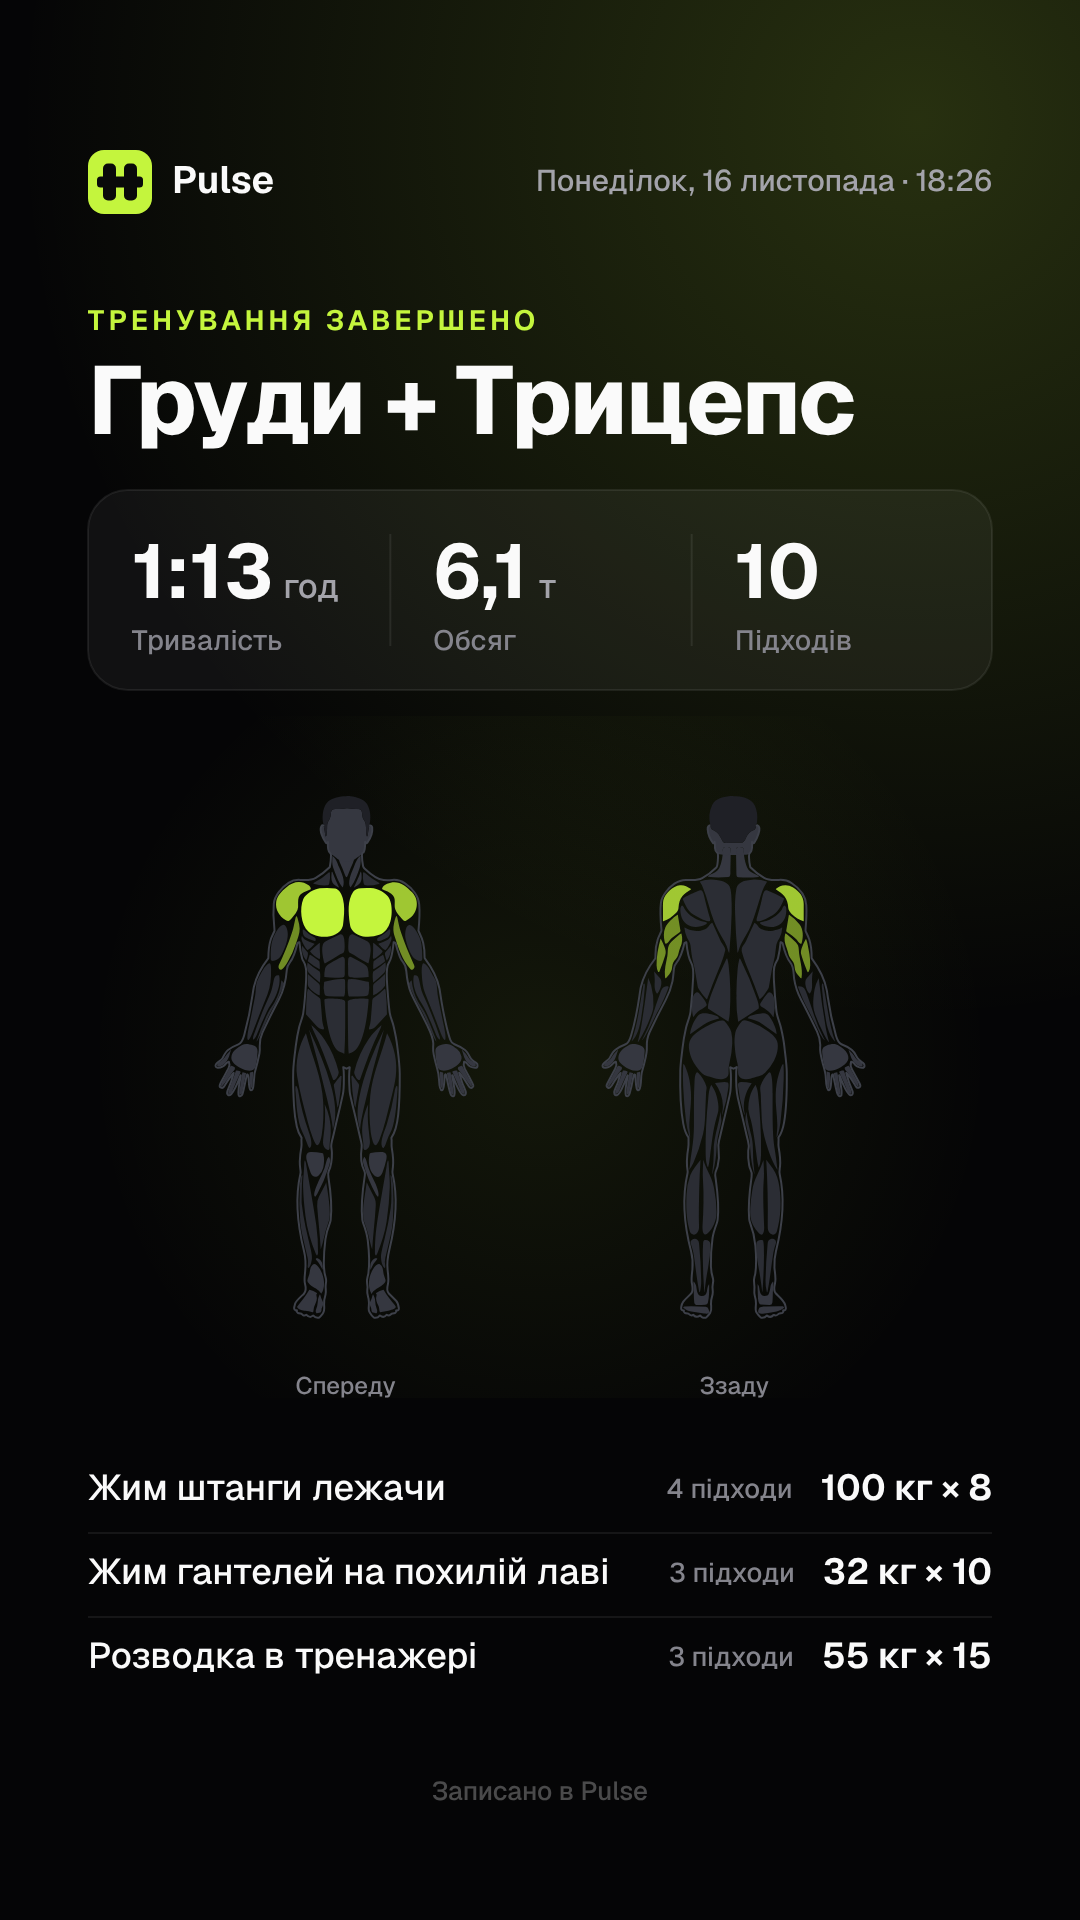
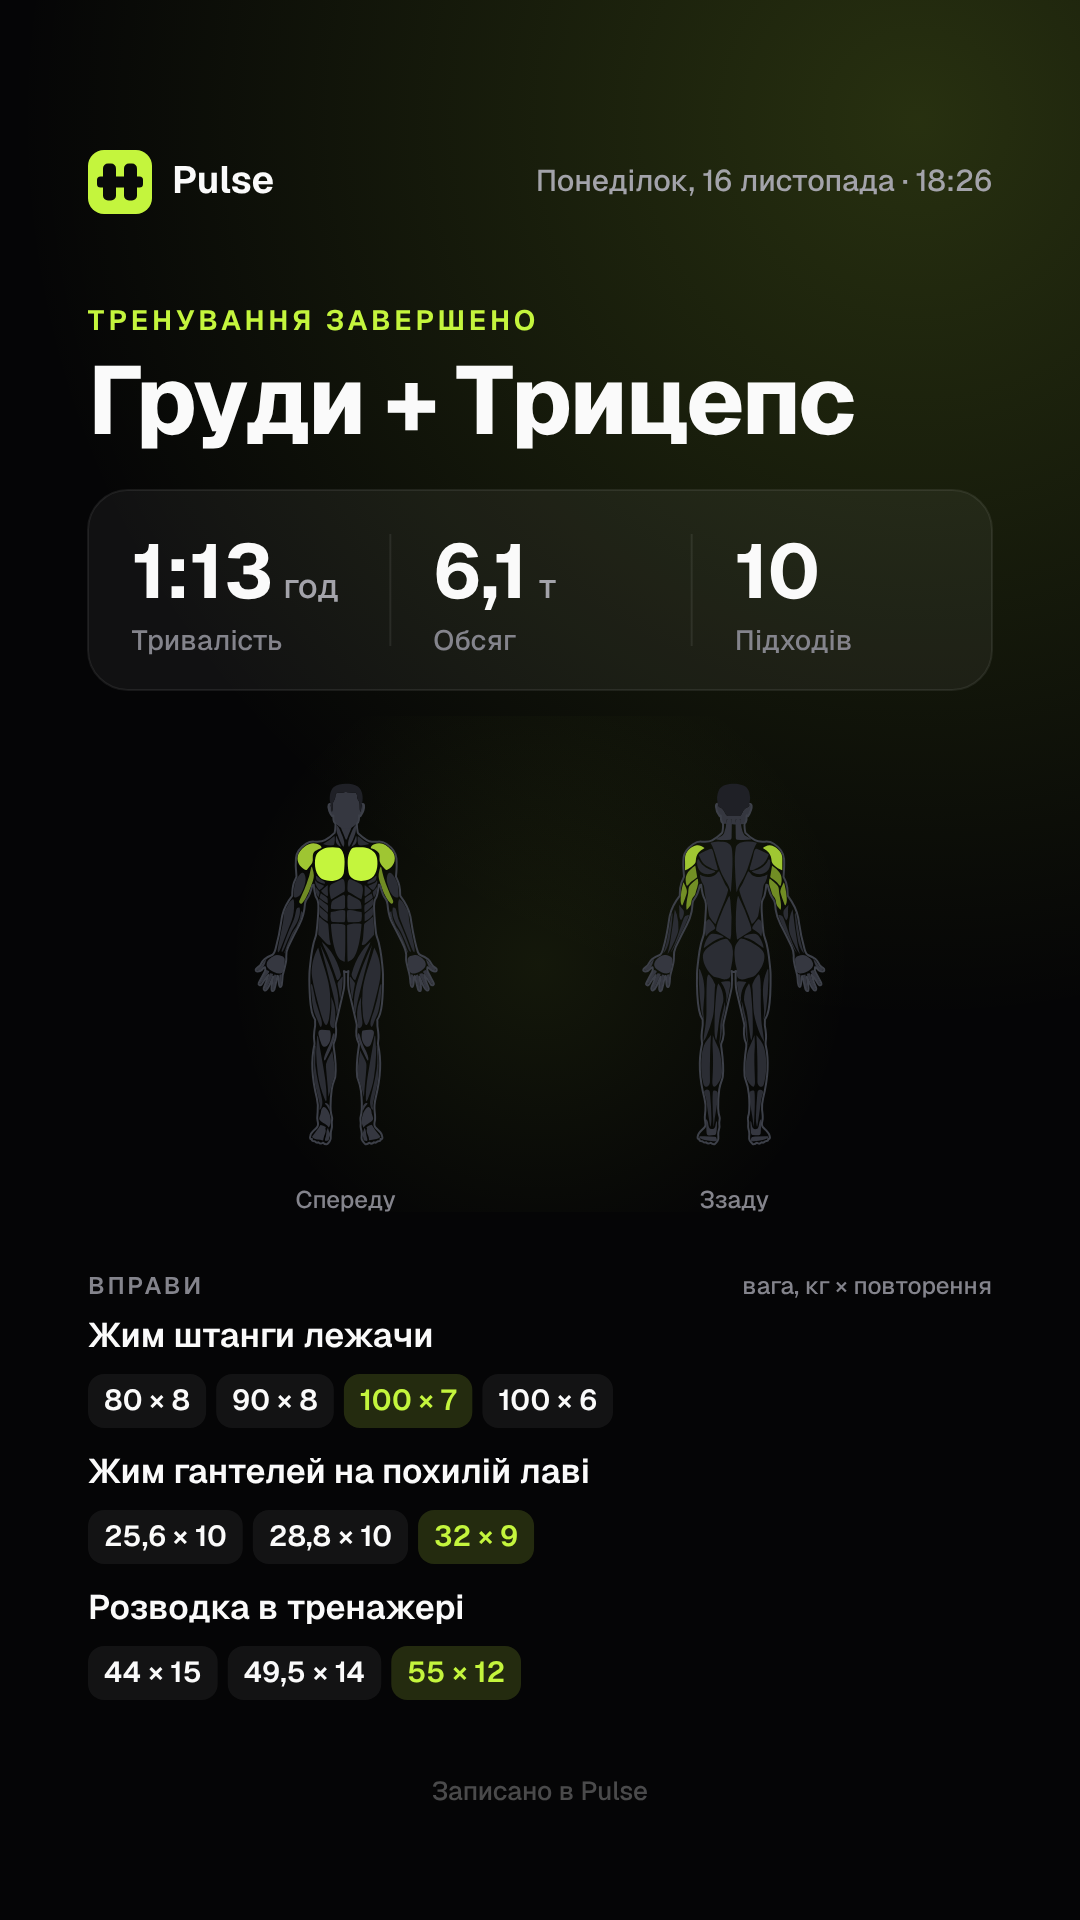
Share card: every set of every exercise as its own chip
Heaviest set is highlighted when weights differ. Layout adapts: figures while
there is room, then smaller type, then two columns, so everything fits.

Claude-Session: https://claude.ai/code/session_01EkMiGAMxw1mVQRSwE4wQRd

diff --git a/src/utils/shareImage.ts b/src/utils/shareImage.ts
@@ -3,8 +3,8 @@ import type { Anatomy, BodyType, Slug } from '@/data/anatomyTypes';
 import { MUSCLE_SLUGS, NON_MUSCLE } from '@/data/anatomyTypes';
 import { muscleTargets } from '@/data/exerciseMedia';
 import { ACCENTS } from '@/data/labels';
-import { formatNumber, formatSet, formatTime, formatWeekdayDate, pluralSets } from './format';
-import { bestSet, sessionVolume } from './stats';
+import { formatNumber, formatTime, formatWeekdayDate } from './format';
+import { sessionVolume } from './stats';
 
 /** Everything the story card shows, already worked out from the session. */
 export interface ShareCard {
@@ -13,7 +13,8 @@ export interface ShareCard {
   durationSec: number;
   volumeKg: number;
   sets: number;
-  exercises: { name: string; sets: number; best: { weight: number; reps: number } | null }[];
+  /** Completed sets of each exercise, in order. */
+  exercises: { name: string; sets: { weight: number; reps: number }[] }[];
   /** Sets per body shape (primary muscles 1, secondary ½). */
   load: Partial<Record<Slug, number>>;
   sex: BodyType;
@@ -128,6 +129,97 @@ function stat(ctx: CanvasRenderingContext2D, x: number, y: number, value: string
   ctx.fillText(label, x, y + 52);
 }
 
+// ---- Exercise list ----------------------------------------------------------
+
+interface Block {
+  x: number;
+  y: number;
+  width: number;
+  name: string;
+  nameSize: number;
+  /** Chips placed relative to the block. */
+  chips: { text: string; x: number; y: number; w: number; best: boolean }[];
+  height: number;
+}
+
+interface ListLayout {
+  k: number;
+  height: number;
+  blocks: Block[];
+}
+
+const chipText = (s: { weight: number; reps: number }) => (s.weight > 0 ? `${formatNumber(s.weight, 2)} × ${s.reps}` : `${s.reps} повт.`);
+
+/** Places each exercise (name over a wrapped row of set chips) in 1 or 2 columns at scale k. */
+function layoutList(ctx: CanvasRenderingContext2D, card: ShareCard, cols: number, k: number): ListLayout {
+  const colGap = 48;
+  const width = cols === 1 ? CARD_W - PAD * 2 : (CARD_W - PAD * 2 - colGap) / 2;
+  const nameH = 46 * k;
+  const chipH = 54 * k;
+  const gap = 10 * k;
+  const blockGap = 26 * k;
+  const blocks: Block[] = card.exercises.map((e) => {
+    let nameSize = Math.round(34 * k);
+    ctx.font = font(nameSize, 600);
+    while (nameSize > Math.round(27 * k) && ctx.measureText(e.name).width > width) ctx.font = font(--nameSize, 600);
+    const heaviest = Math.max(...e.sets.map((s) => s.weight));
+    // The top weight is highlighted only when the weights actually differ.
+    const bestIdx = heaviest > 0 && e.sets.some((s) => s.weight !== heaviest) ? e.sets.findIndex((s) => s.weight === heaviest) : -1;
+    ctx.font = font(Math.round(29 * k), 600);
+    const chips: Block['chips'] = [];
+    let cx = 0;
+    let cy = nameH + gap;
+    e.sets.forEach((set, i) => {
+      const text = chipText(set);
+      const w = ctx.measureText(text).width + 32 * k;
+      if (cx > 0 && cx + w > width) {
+        cx = 0;
+        cy += chipH + gap;
+      }
+      chips.push({ text, x: cx, y: cy, w, best: i === bestIdx });
+      cx += w + gap;
+    });
+    return { x: 0, y: 0, width, name: e.name, nameSize, chips, height: cy + chipH };
+  });
+  // Two columns: fill the left one first, then the right, keeping heights balanced.
+  const total = blocks.reduce((a, b) => a + b.height + blockGap, 0) - blockGap;
+  let col = 0;
+  let cy = 0;
+  let height = 0;
+  for (const b of blocks) {
+    if (cols === 2 && col === 0 && cy > 0 && cy + b.height / 2 > total / 2) {
+      col = 1;
+      cy = 0;
+    }
+    b.x = PAD + col * (width + colGap);
+    b.y = cy;
+    cy += b.height + blockGap;
+    height = Math.max(height, cy - blockGap);
+  }
+  return { k, height, blocks };
+}
+
+function drawList(ctx: CanvasRenderingContext2D, l: ListLayout, top: number, accent: string) {
+  const { k } = l;
+  const chipH = 54 * k;
+  for (const b of l.blocks) {
+    const by = top + b.y;
+    ctx.textBaseline = 'middle';
+    ctx.textAlign = 'left';
+    ctx.fillStyle = FG;
+    ctx.font = font(b.nameSize, 600);
+    ctx.fillText(fit(ctx, b.name, b.width), b.x, by + 20 * k);
+    ctx.font = font(Math.round(29 * k), 600);
+    for (const c of b.chips) {
+      roundRect(ctx, b.x + c.x, by + c.y, c.w, chipH, 16 * k);
+      ctx.fillStyle = c.best ? rgba(accent, 0.16) : 'rgba(255,255,255,0.06)';
+      ctx.fill();
+      ctx.fillStyle = c.best ? `rgb(${accent})` : FG;
+      ctx.fillText(c.text, b.x + c.x + 16 * k, by + c.y + chipH / 2 + 1);
+    }
+  }
+}
+
 /**
  * Draws a 1080×1920 story card (Instagram / Telegram stories). Important content
  * stays clear of the top and bottom ~220 px that story apps cover with their UI.
@@ -203,56 +295,49 @@ export function drawShareCard(ctx: CanvasRenderingContext2D, card: ShareCard, an
   });
   y += panelH;
 
-  // Every exercise must fit. Rows shrink as the list grows; the body figures take
-  // what is left and are dropped only when they would get too small to read.
-  const n = card.exercises.length;
+  // Every exercise with every set must fit. Try the roomiest layout first, then
+  // drop the figures, then shrink, and finally split the list into two columns.
   const bottom = 1700;
   const top = y + 56;
-  const avail = bottom - top;
   const FIG_MIN = 300;
   const FIG_EXTRA = 100; // caption + gap under the figures
-  let rowH = Math.min(84, Math.max(40, (avail - FIG_MIN - FIG_EXTRA) / Math.max(n, 1)));
-  let figH = avail - n * rowH - FIG_EXTRA;
-  if (figH < FIG_MIN) {
-    figH = 0;
-    rowH = Math.min(84, avail / Math.max(n, 1));
-  }
-  figH = Math.min(figH, 700);
-  const k = rowH / 84;
-  const listTop = bottom - n * rowH;
-
-  card.exercises.forEach((e, i) => {
-    const ry = listTop + i * rowH;
-    const mid = ry + rowH / 2;
-    if (i > 0) {
-      ctx.fillStyle = 'rgba(255,255,255,0.07)';
-      ctx.fillRect(PAD, ry, inner, 2);
+  const LEGEND = 56;
+  let plan: ListLayout | null = null;
+  let figH = 0;
+  search: for (const cols of [1, 2]) {
+    for (let k = 1; k >= 0.55; k -= 0.05) {
+      const l = layoutList(ctx, card, cols, k);
+      const room = bottom - top - LEGEND - l.height;
+      if (cols === 1 && k > 0.8 && room >= FIG_MIN + FIG_EXTRA) {
+        plan = l;
+        figH = Math.min(room - FIG_EXTRA, 620);
+        break search;
+      }
+      if (room >= 0) {
+        plan = l;
+        break search;
+      }
     }
-    ctx.textBaseline = 'middle';
-    const right = e.best ? formatSet(e.best.weight, e.best.reps) : '';
-    ctx.font = font(Math.round(36 * k), 650);
-    const rw = ctx.measureText(right).width;
-    ctx.textAlign = 'right';
-    ctx.fillStyle = FG;
-    ctx.fillText(right, W - PAD, mid);
-    ctx.textAlign = 'left';
-    ctx.fillStyle = SUBTLE;
-    ctx.font = font(Math.round(27 * k), 500);
-    const setsLabel = pluralSets(e.sets);
-    const sw = ctx.measureText(setsLabel).width;
-    ctx.fillText(setsLabel, W - PAD - rw - sw - 28, mid + 1);
-    // A long name first gets smaller type (down to 80 %), only then an ellipsis.
-    const nameMax = inner - rw - sw - 72;
-    let size = Math.round(36 * k);
-    ctx.font = font(size, 500);
-    while (size > Math.round(29 * k) && ctx.measureText(e.name).width > nameMax) ctx.font = font(--size, 500);
-    ctx.fillStyle = FG;
-    ctx.fillText(fit(ctx, e.name, nameMax), PAD, mid);
-  });
+  }
+  plan ??= layoutList(ctx, card, 2, 0.5);
+  const listTop = bottom - plan.height;
+  drawList(ctx, plan, listTop, A);
+
+  // Legend over the list: what the numbers in the chips mean.
+  ctx.textBaseline = 'alphabetic';
+  ctx.fillStyle = SUBTLE;
+  ctx.font = font(24, 600);
+  ctx.letterSpacing = '3px';
+  ctx.fillText('ВПРАВИ', PAD, listTop - 24);
+  ctx.letterSpacing = '0px';
+  ctx.textAlign = 'right';
+  ctx.font = font(24, 500);
+  ctx.fillText('вага, кг × повторення', W - PAD, listTop - 24);
+  ctx.textAlign = 'left';
 
   // Body figures, centred in the space between the stats and the list.
   if (figH > 0) {
-    const figTop = top + (listTop - top - figH - FIG_EXTRA) / 2 + 10;
+    const figTop = top + (listTop - LEGEND - top - figH - FIG_EXTRA) / 2 + 10;
     g = ctx.createRadialGradient(W / 2, figTop + figH / 2, 0, W / 2, figTop + figH / 2, figH * 0.75);
     g.addColorStop(0, rgba(A, 0.08));
     g.addColorStop(1, rgba(A, 0));
@@ -294,8 +379,7 @@ export function buildShareCard(
     const done = e.sets.filter((x) => x.done !== false && x.reps > 0);
     if (!done.length) continue;
     sets += done.length;
-    const best = bestSet(done.map((x) => ({ ...x, done: true })));
-    exercises.push({ name: e.name, sets: done.length, best: best && { weight: best.weight, reps: best.reps } });
+    exercises.push({ name: e.name, sets: done.map((x) => ({ weight: x.weight, reps: x.reps })) });
     const { primary, secondary } = muscleTargets(exerciseById(e.exerciseId) ?? { id: e.exerciseId, muscleGroup: 'fullBody' });
     for (const m of primary) add(MUSCLE_SLUGS[m], done.length);
     for (const m of secondary) if (!primary.includes(m)) add(MUSCLE_SLUGS[m], done.length / 2);

diff --git a/src/utils/shareImage.test.ts b/src/utils/shareImage.test.ts
@@ -19,10 +19,10 @@ const session: WorkoutSession = {
 describe('buildShareCard', () => {
   const card = buildShareCard(session, byId, { accent: 'pink', bodyType: 'female' });
 
-  it('keeps only exercises with completed sets, each with its best set', () => {
+  it('keeps only exercises with completed sets, each with every set in order', () => {
     expect(card.exercises).toEqual([
-      { name: 'Жим штанги лежачи', sets: 2, best: { weight: 100, reps: 8 } },
-      { name: 'Віджимання на брусах', sets: 2, best: { weight: 0, reps: 14 } },
+      { name: 'Жим штанги лежачи', sets: [{ weight: 90, reps: 10 }, { weight: 100, reps: 8 }] },
+      { name: 'Віджимання на брусах', sets: [{ weight: 0, reps: 12 }, { weight: 0, reps: 14 }] },
     ]);
     expect(card.sets).toBe(4);
     expect(card.volumeKg).toBe(1700);
